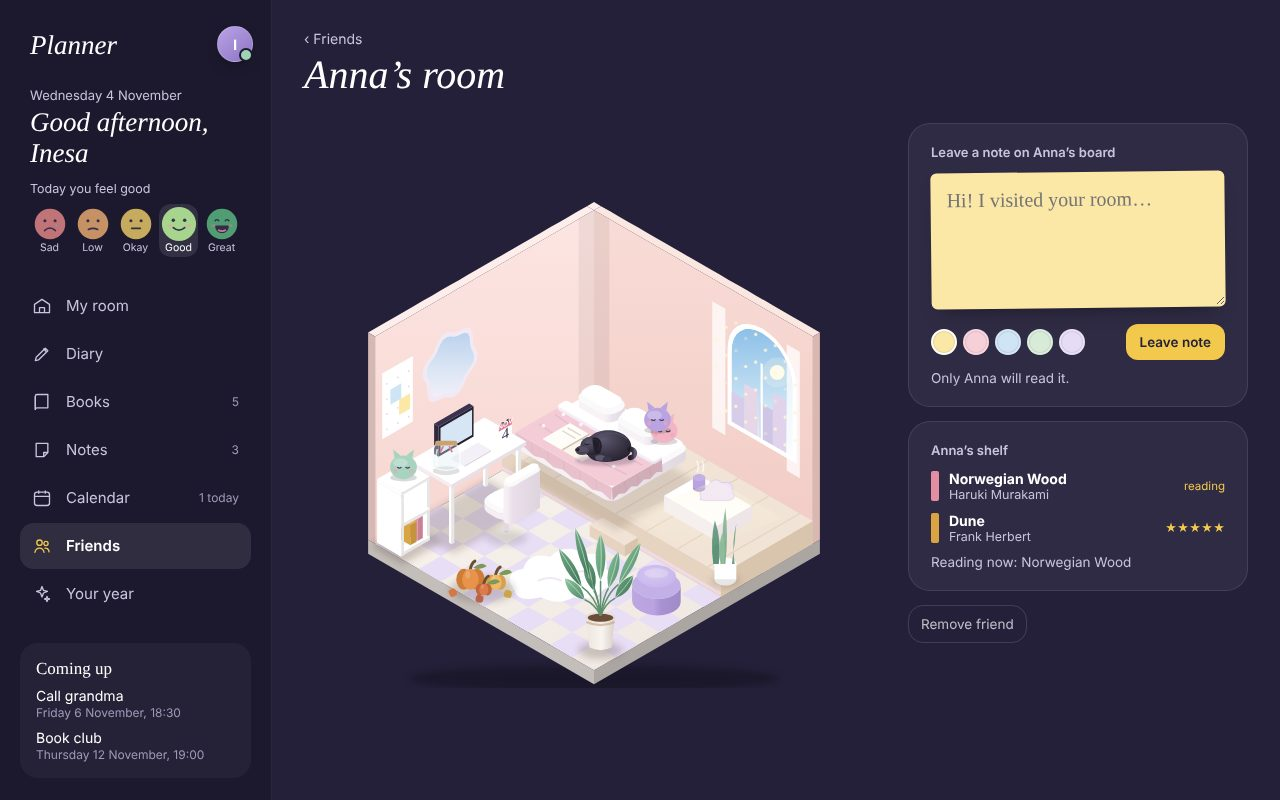
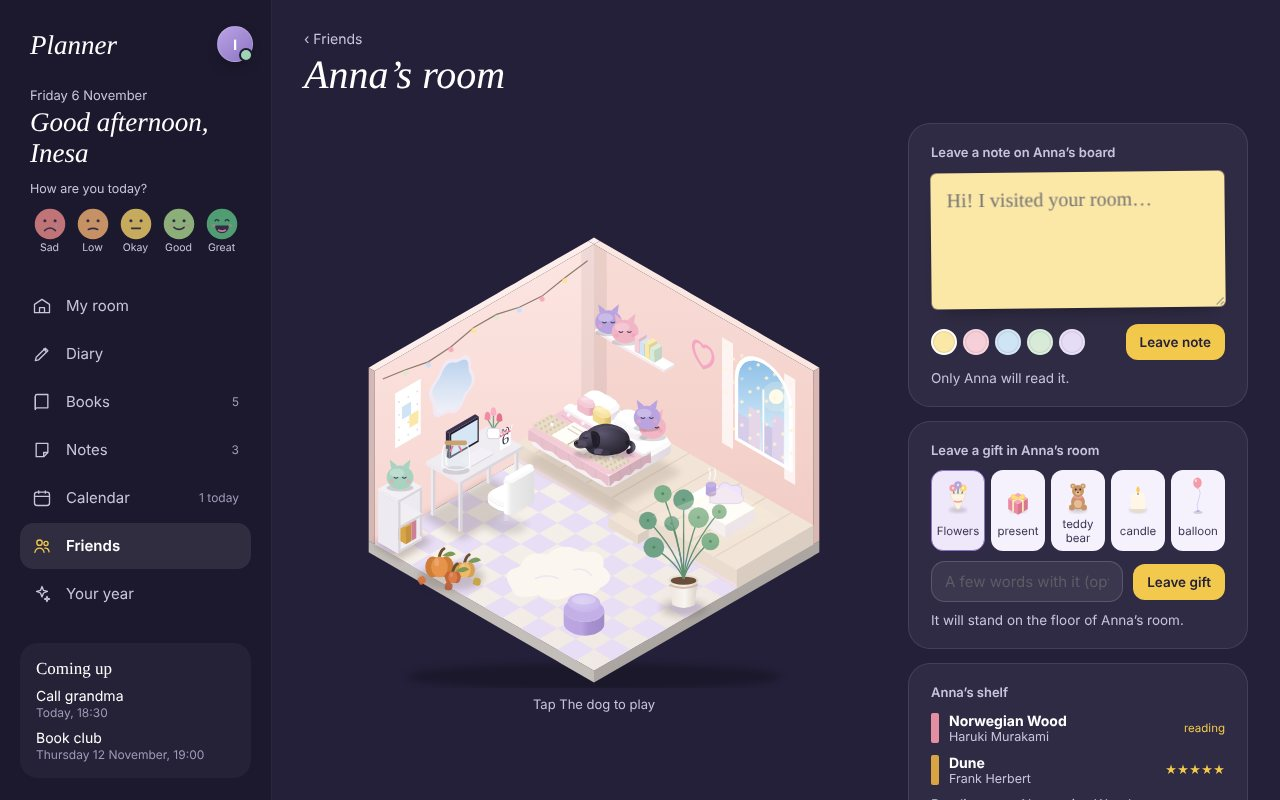
README: clear description of the app with new pictures and an animated tour of the rooms

diff --git a/README.md b/README.md
@@ -1,14 +1,86 @@
 # Planner
 
-**A cozy room that is your planner and diary.** Every object in the room opens a part of your life: the diary on the bed, books on the shelf, notes on the corkboard, plans on the desk calendar.
+**A cozy little room that is your planner and diary.**
 
-**Live:** https://inesa07.github.io/Planner/
+Instead of menus and lists, you get a small room. Every object in it opens one part of your life: tap the **bed** to write in your diary, the **bookshelf** for your books, the **corkboard** for notes and the **desk calendar** for your plans. The room grows with you: books appear on the shelf, the plant gets a new leaf every day you write, and the window shows the real time of day and weather.
 
-![My room](docs/room.jpg)
+### 👉 [Open Planner](https://inesa07.github.io/Planner/)
+
+Free, works in any browser on a computer or a phone, and you can install it like an app. Your diary is private: friends can visit your room, but never read your diary.
+
+<p align="center"><img src="docs/rooms.gif" width="560" alt="The four rooms: a Nordic cabin, a night observatory, a seaside studio and a pastel room"></p>
 
 ---
 
-## Case study
+## How it works
+
+| Tap in the room | What opens |
+| --- | --- |
+| 🛏 The bed | **Diary**: a real little book you write, draw and put stickers and photos in |
+| 📚 The bookshelf | **Books**: what you read, your progress, quotes and a yearly goal |
+| 📌 The corkboard | **Notes**: quick things to remember, pinned on coloured paper |
+| 📅 The desk calendar | **Calendar**: plans by day, week or month, with reminders |
+| 🫙 The mood jar | **Moods**: one marble a day in the colour of how you felt |
+| 🐱 Your pet | Say hi. It sleeps, plays and moves around the room through the day |
+
+A short tour shows each of these the first time you open the app.
+
+![My room](docs/room.jpg)
+
+## What you can do
+
+### ✏ Write in a diary that feels like paper
+Pages turn like a book. Type, draw with a pen, add stickers and photos, and move them between pages. Make a page a tracker, a to-do list, goals or a month plan. Keep your favourite pages in **Memories**, search everything you wrote, and save the whole diary as a PDF.
+
+When you don't know what to write, the next empty page asks you **one small question a day**. Every 20 pages a colourful **chapter cover** begins a new part of your story.
+
+<p>
+  <img src="docs/diary.jpg" width="49%" alt="Writing in the diary">
+  <img src="docs/chapter.jpg" width="49%" alt="A chapter cover every 20 pages">
+</p>
+
+### 📚 Keep track of your books, notes and plans
+Add the books you read and they appear on your shelf. Pin notes on a corkboard with fairy lights. Plan your days in the calendar and get a reminder on time.
+
+<p>
+  <img src="docs/books.jpg" width="32.5%" alt="Books">
+  <img src="docs/notes.jpg" width="32.5%" alt="Notes on the corkboard">
+  <img src="docs/calendar.jpg" width="32.5%" alt="Calendar">
+</p>
+
+### 🛋 Make the room yours
+Choose one of four rooms, each with its own shape: a **Nordic cabin**, a **night observatory**, a **seaside studio** or a **pastel room**. In **Decorate**, every piece has 3 styles: the bed, bookshelf, desk, chair, lamp, plant, flowers, clock and wall decoration. Change the colours, pick a cat or a dog and give it a name, or put your own photo in the window.
+
+<p>
+  <img src="docs/rooms.jpg" width="49%" alt="Choose your room">
+  <img src="docs/decorate.jpg" width="49%" alt="Decorate: three styles for every piece">
+</p>
+
+![The same room in three different styles](docs/styles.jpg)
+
+The room also follows real life: day and night in the window, the real weather where you live (rain, snow, sun), pumpkins in autumn, a little tree in December. You can turn on quiet sounds too: rain, a fireplace, birds or the sea.
+
+### 💌 Visit friends
+Share your friend code. You can visit each other's rooms, play with their pet, leave a note on their board, or leave a **gift**: flowers, a present, a teddy bear, a candle or a balloon that stands in their room.
+
+![A friend's room](docs/friend.jpg)
+
+### ✨ See your year
+Open a short story of your year, like Spotify Wrapped: the days you wrote, your favourite book, your mood, your plans. Share all the cards at once with friends.
+
+<p>
+  <img src="docs/year.jpg" width="49%" alt="Your year">
+  <img src="docs/night-snow.jpg" width="49%" alt="The room in the evening">
+</p>
+
+### 📱 On your phone too
+Everything syncs between your phone and computer when you sign in. It also works offline.
+
+<p align="center"><img src="docs/phone.jpg" width="280" alt="Planner on a phone"></p>
+
+---
+
+## Case study (for product people)
 
 ### The problem
 
@@ -42,28 +114,6 @@ Turn the app into a **place** instead of a list. The home screen is a small isom
 | **Local first** | Everything is saved on the device first, so the app opens instantly and works offline. Sign-in syncs it between phone and computer. |
 | **Removed the "quick capture" field** | It tried to guess where a sentence belongs. It was clever but confusing, and the room already makes each place obvious. |
 
-### Features
-
-- **Diary**: a book that grows without a limit; text, pen, stickers, photos, page styles; drag between pages; rotate; *Keep* a page in the memory chest; recycle bin; search across all pages; save the whole diary as a PDF
-- **Books**: want to read / reading / read, page progress, reading timer, rating, review, quotes (one tap puts a quote in your diary), yearly goal
-- **Notes** on coloured paper, with search
-- **Calendar**: month and week, times and reminders
-- **Mood**: pick how you feel in the menu or in the mood jar; the calendar is tinted by your moods
-- **Weather and sounds**: real weather in the window (Open-Meteo), and quiet room sounds made in the browser (rain, fireplace, birds, sea, summer night)
-- **Friends**: a friend code, visit a friend's room and shelf, leave a note on their board
-- **Your year**: a yearly wrap-up of diary days, books, moods, plans and your room
-- **Light and dark** look, works on phone and computer, installable as an app (PWA)
-- **Onboarding** in three steps: your name, your room, your first thing
-
-<p>
-  <img src="docs/diary.jpg" width="49%" alt="Diary">
-  <img src="docs/rooms.jpg" width="49%" alt="Choose your room">
-  <img src="docs/friend.jpg" width="49%" alt="A friend's room">
-  <img src="docs/year.jpg" width="49%" alt="Your year">
-  <img src="docs/night-snow.jpg" width="49%" alt="Snow outside in the evening">
-  <img src="docs/phone.jpg" width="24%" alt="On a phone">
-</p>
-
 ### Measuring it
 
 The app sends anonymous usage events (which pages are opened, that something was added — never what people write) to a table that only the owner's account can read, enforced by the database itself (row level security). The owner sees an `#admin` page with:
@@ -79,7 +129,7 @@ These answer the main questions of the product: *does the room make people come 
 
 1. Push reminders when the app is closed (needs a small server)
 2. Shared rooms: decorate a room together with a friend
-3. More rooms and furniture, and seasonal items you can keep
+3. Seasonal items you can collect and keep
 4. AI help: "what did I write about Anna this year?" across the diary
 
 ---
@@ -115,6 +165,9 @@ js/weather.js           real weather from Open-Meteo
 js/sounds.js            room sounds made with Web Audio
 js/analytics.js         anonymous usage events
 js/onboarding.js        the three welcome steps
+js/tour.js              the guided tour of the room
+js/chapters.js          chapter covers and the daily questions
+js/templates.js         diary page layouts: tracker, to-do, goals, month
 js/views/*.js           the pages: room, diary, books, notes, calendar, friends, your year, admin
 sw.js                   offline support
 supabase/*.sql          database tables and access rules
